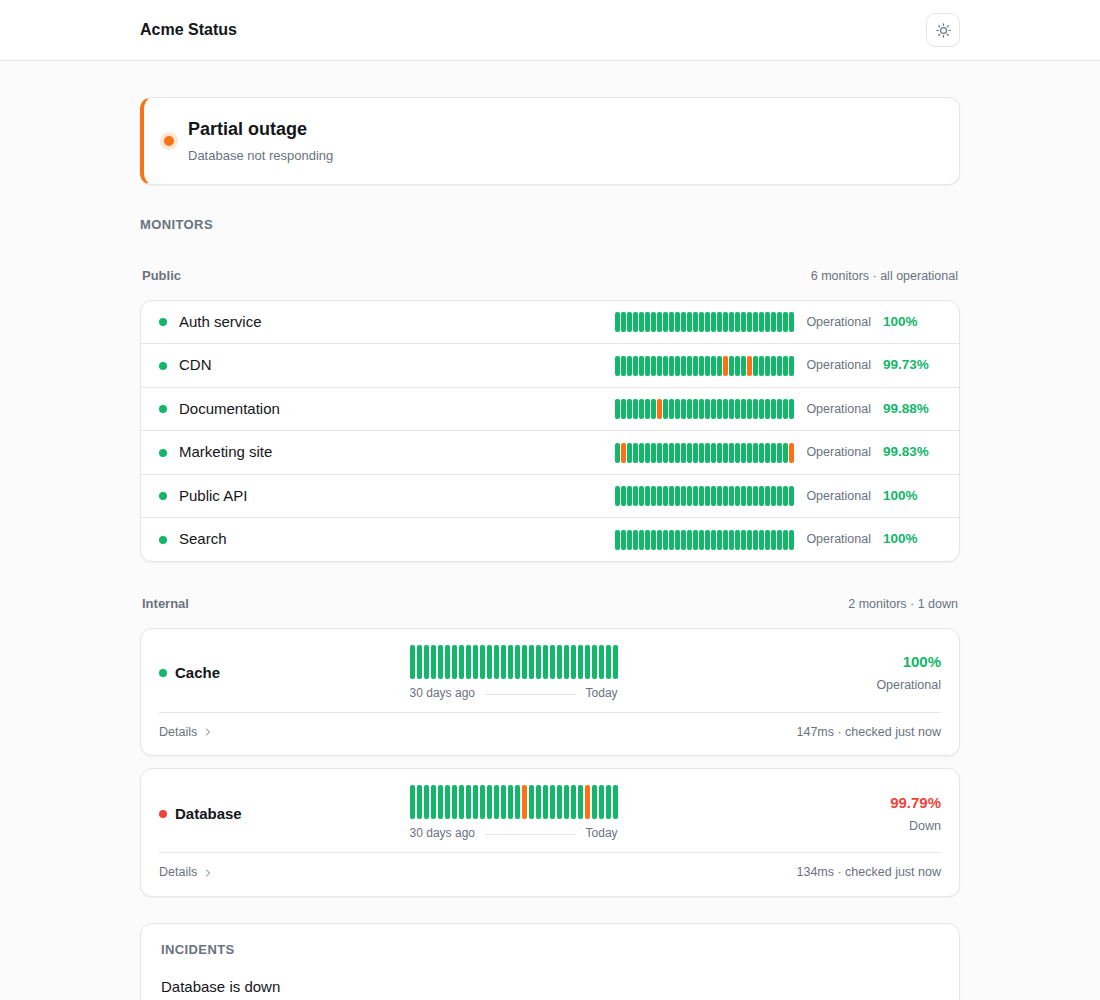
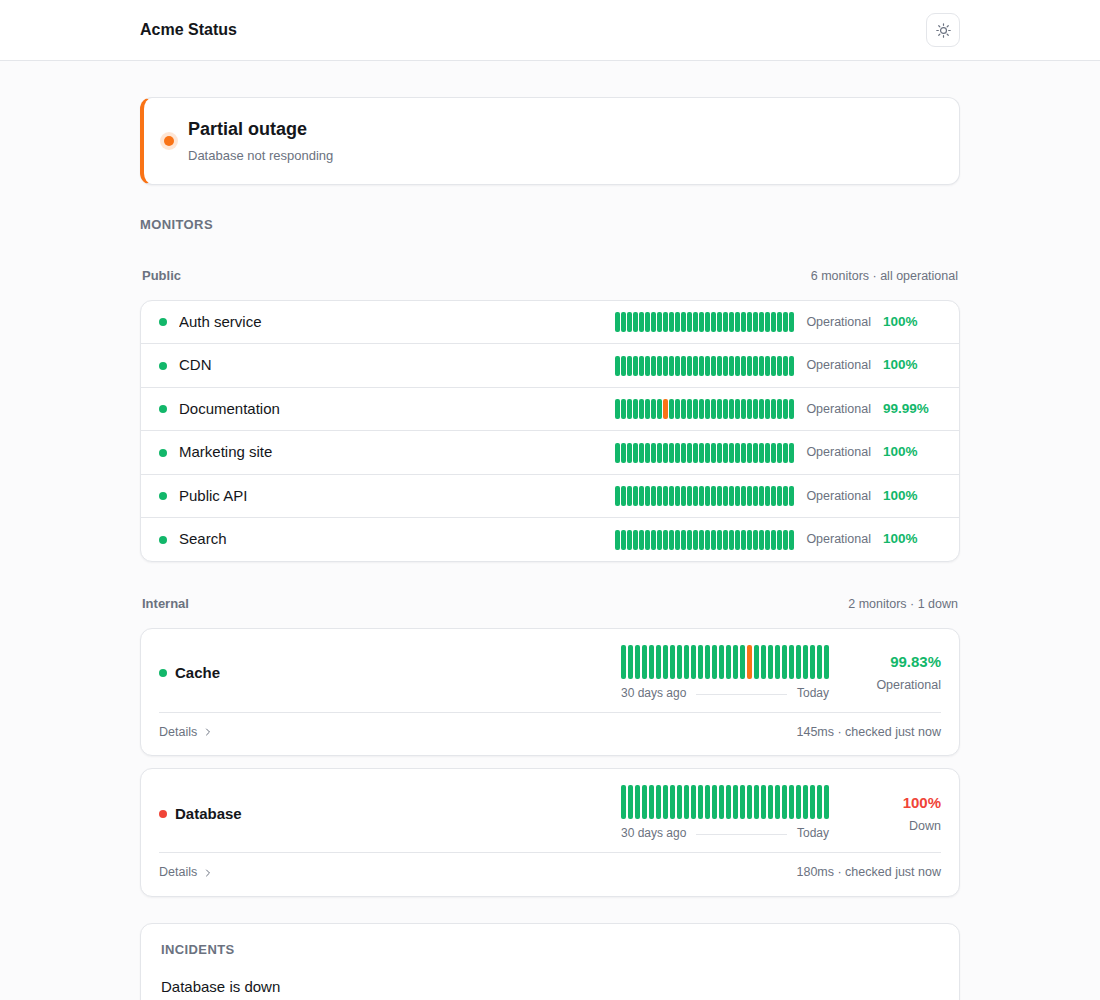
style: hold the card strip against the figure on the right
The strip sat beside the name with the empty space after it. An auto margin
puts that space before it instead, and the figure keeps a reserved column so
every card's strip still starts and ends at the same place; a long status
word wraps inside that column rather than widening it.

The painted width is reported as a custom property now instead of an inline
width, so the narrow layout can lay the strip out on a line of its own
without an inline style overruling it.

diff --git a/site/style.css b/site/style.css
@@ -383,18 +383,22 @@ main.shell {
   gap: 16px;
 }
 
-/* A fixed name column keeps every card's strip starting at the same place,
-   whatever the status word beside it is. */
 .card-left {
-  flex: 0 0 30%;
+  flex: 1 1 auto;
   min-width: 0;
 }
 
-/* Takes the leftover width while it is measured; the fill sets it to the
-   width it actually painted. */
+/* Takes the leftover width while it is measured, then holds the width it
+   painted, with the auto margin keeping it against the figure on the right. */
 .card .strip-block {
   flex: 1 1 auto;
   min-width: 0;
+  margin-left: auto;
+}
+
+.card .strip-block.is-sized {
+  flex: 0 0 auto;
+  width: var(--strip-width);
 }
 
 .card .bars {
@@ -439,10 +443,11 @@ main.shell {
   color: var(--muted);
 }
 
+/* A reserved column so every card's strip ends at the same place, whatever
+   the status word is. A long one wraps inside it rather than widening it. */
 .card-status {
-  margin-left: auto;
+  flex: 0 0 96px;
   text-align: right;
-  flex: none;
 }
 
 .card-uptime {
@@ -644,14 +649,18 @@ main.shell {
   .card-desc {
     display: none;
   }
-  /* Too little width for name, strip and figure side by side: the name takes
-     a line of its own and the other two share the next. */
+  /* Too little width for name, strip and figure side by side: name and figure
+     keep the first line and the strip takes the second. */
   .card-head {
     flex-wrap: wrap;
     gap: 10px 16px;
   }
-  .card-left {
+  .card .strip-block,
+  .card .strip-block.is-sized {
+    order: 3;
     flex: 1 0 100%;
+    width: auto;
+    margin-left: 0;
   }
   .compact-row {
     gap: 9px;

diff --git a/site/app.js b/site/app.js
@@ -565,9 +565,10 @@ function fillPendingStrips() {
     // compact row's strip is a flex item that already holds the leftover.
     const painted = fillBars(bars, monitor, (wrapper || bars).clientWidth, gap, RANGE_DAYS, BAR_WIDTH);
     if (wrapper) {
-      // Stop it growing back into the leftover it was measured against.
-      wrapper.style.flex = '0 0 auto';
-      wrapper.style.width = `${painted.width}px`;
+      // Reported as a property rather than a width, so a media query can still
+      // lay the strip out differently without fighting an inline style.
+      wrapper.style.setProperty('--strip-width', `${painted.width}px`);
+      wrapper.classList.add('is-sized');
     }
   }
 }
